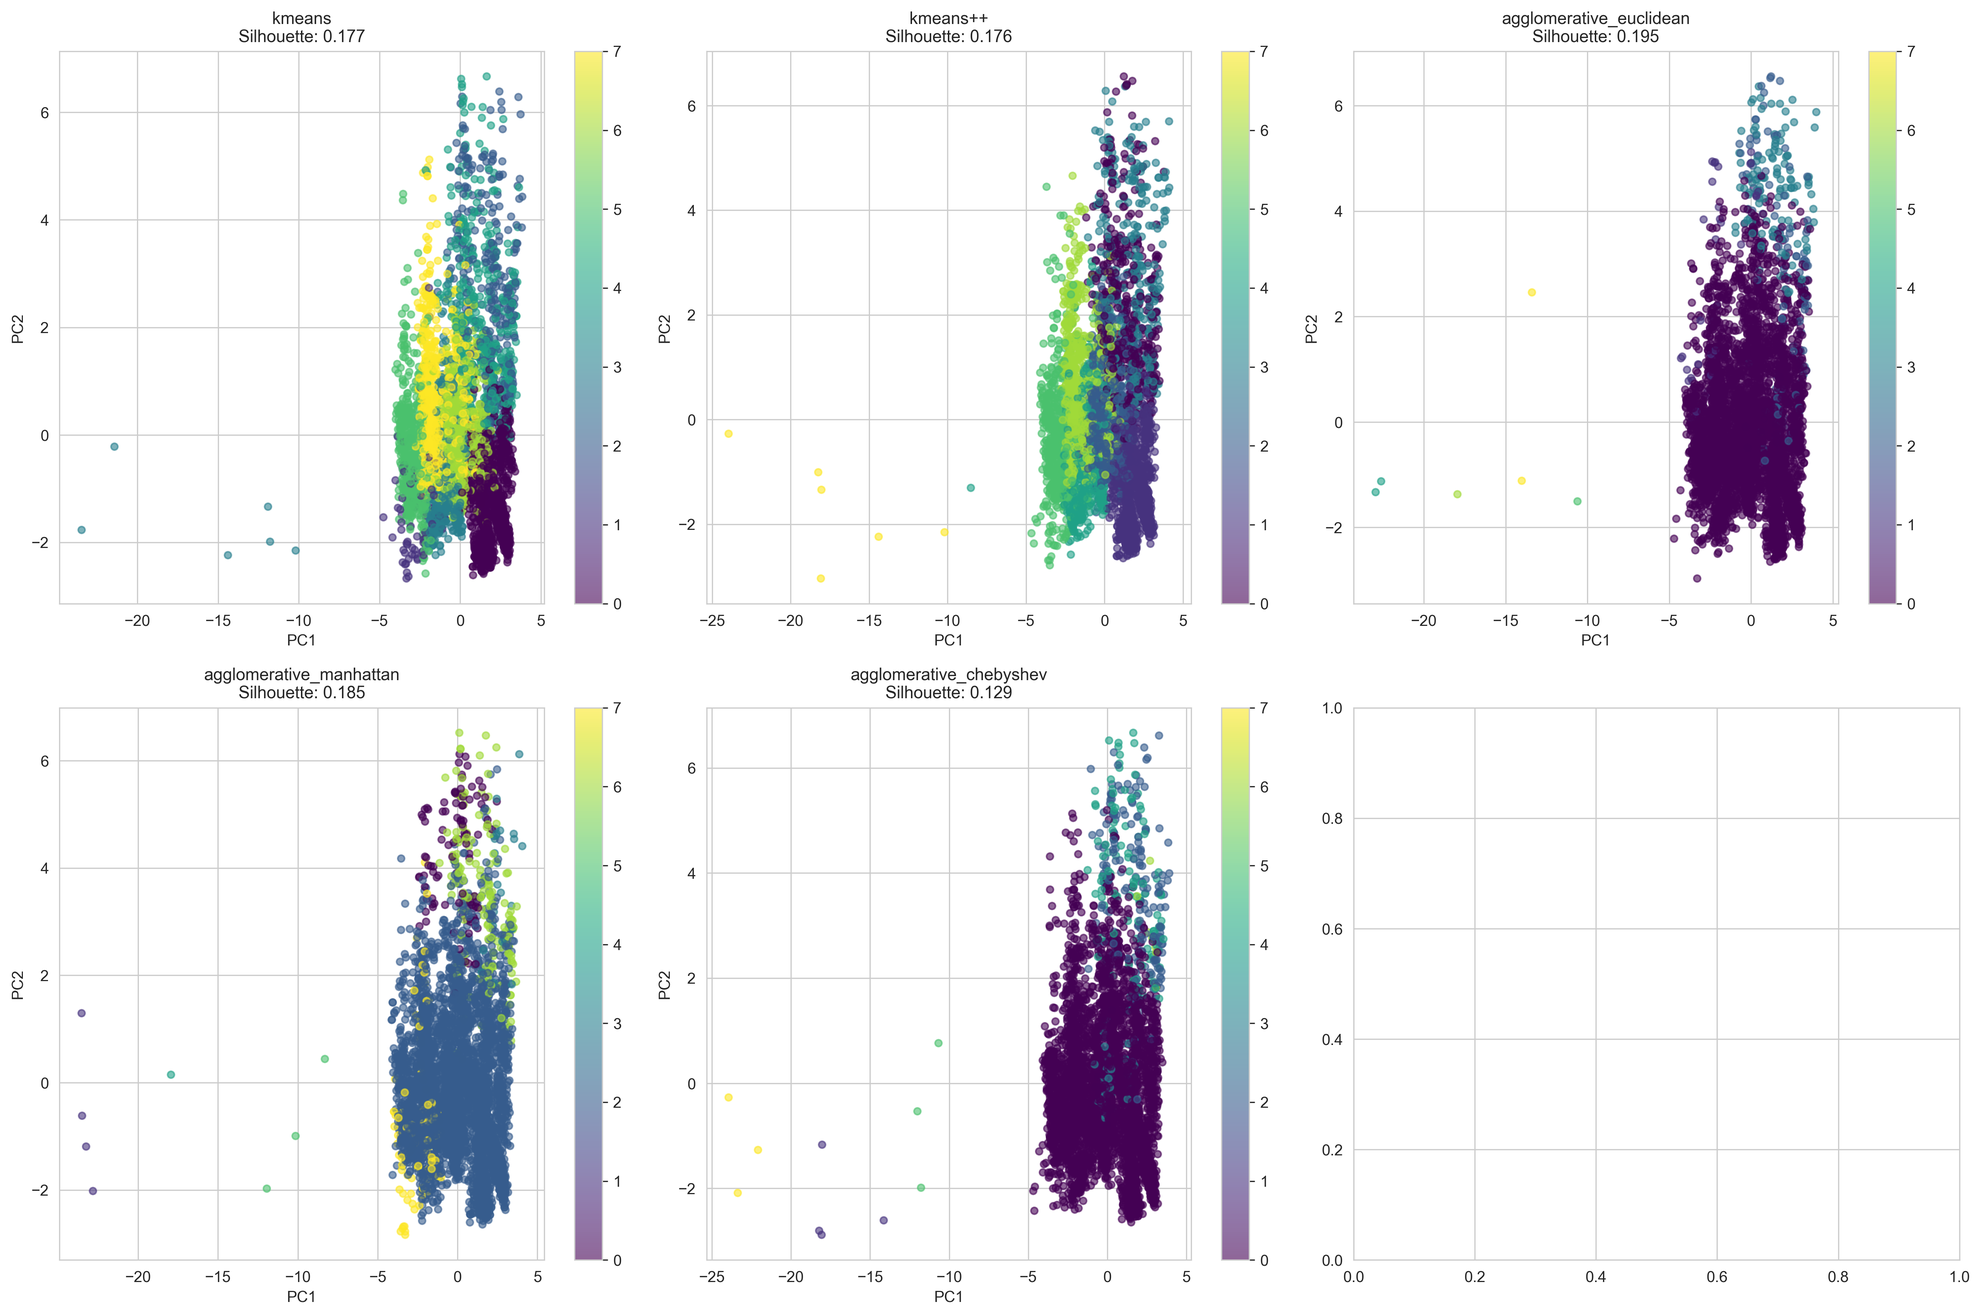
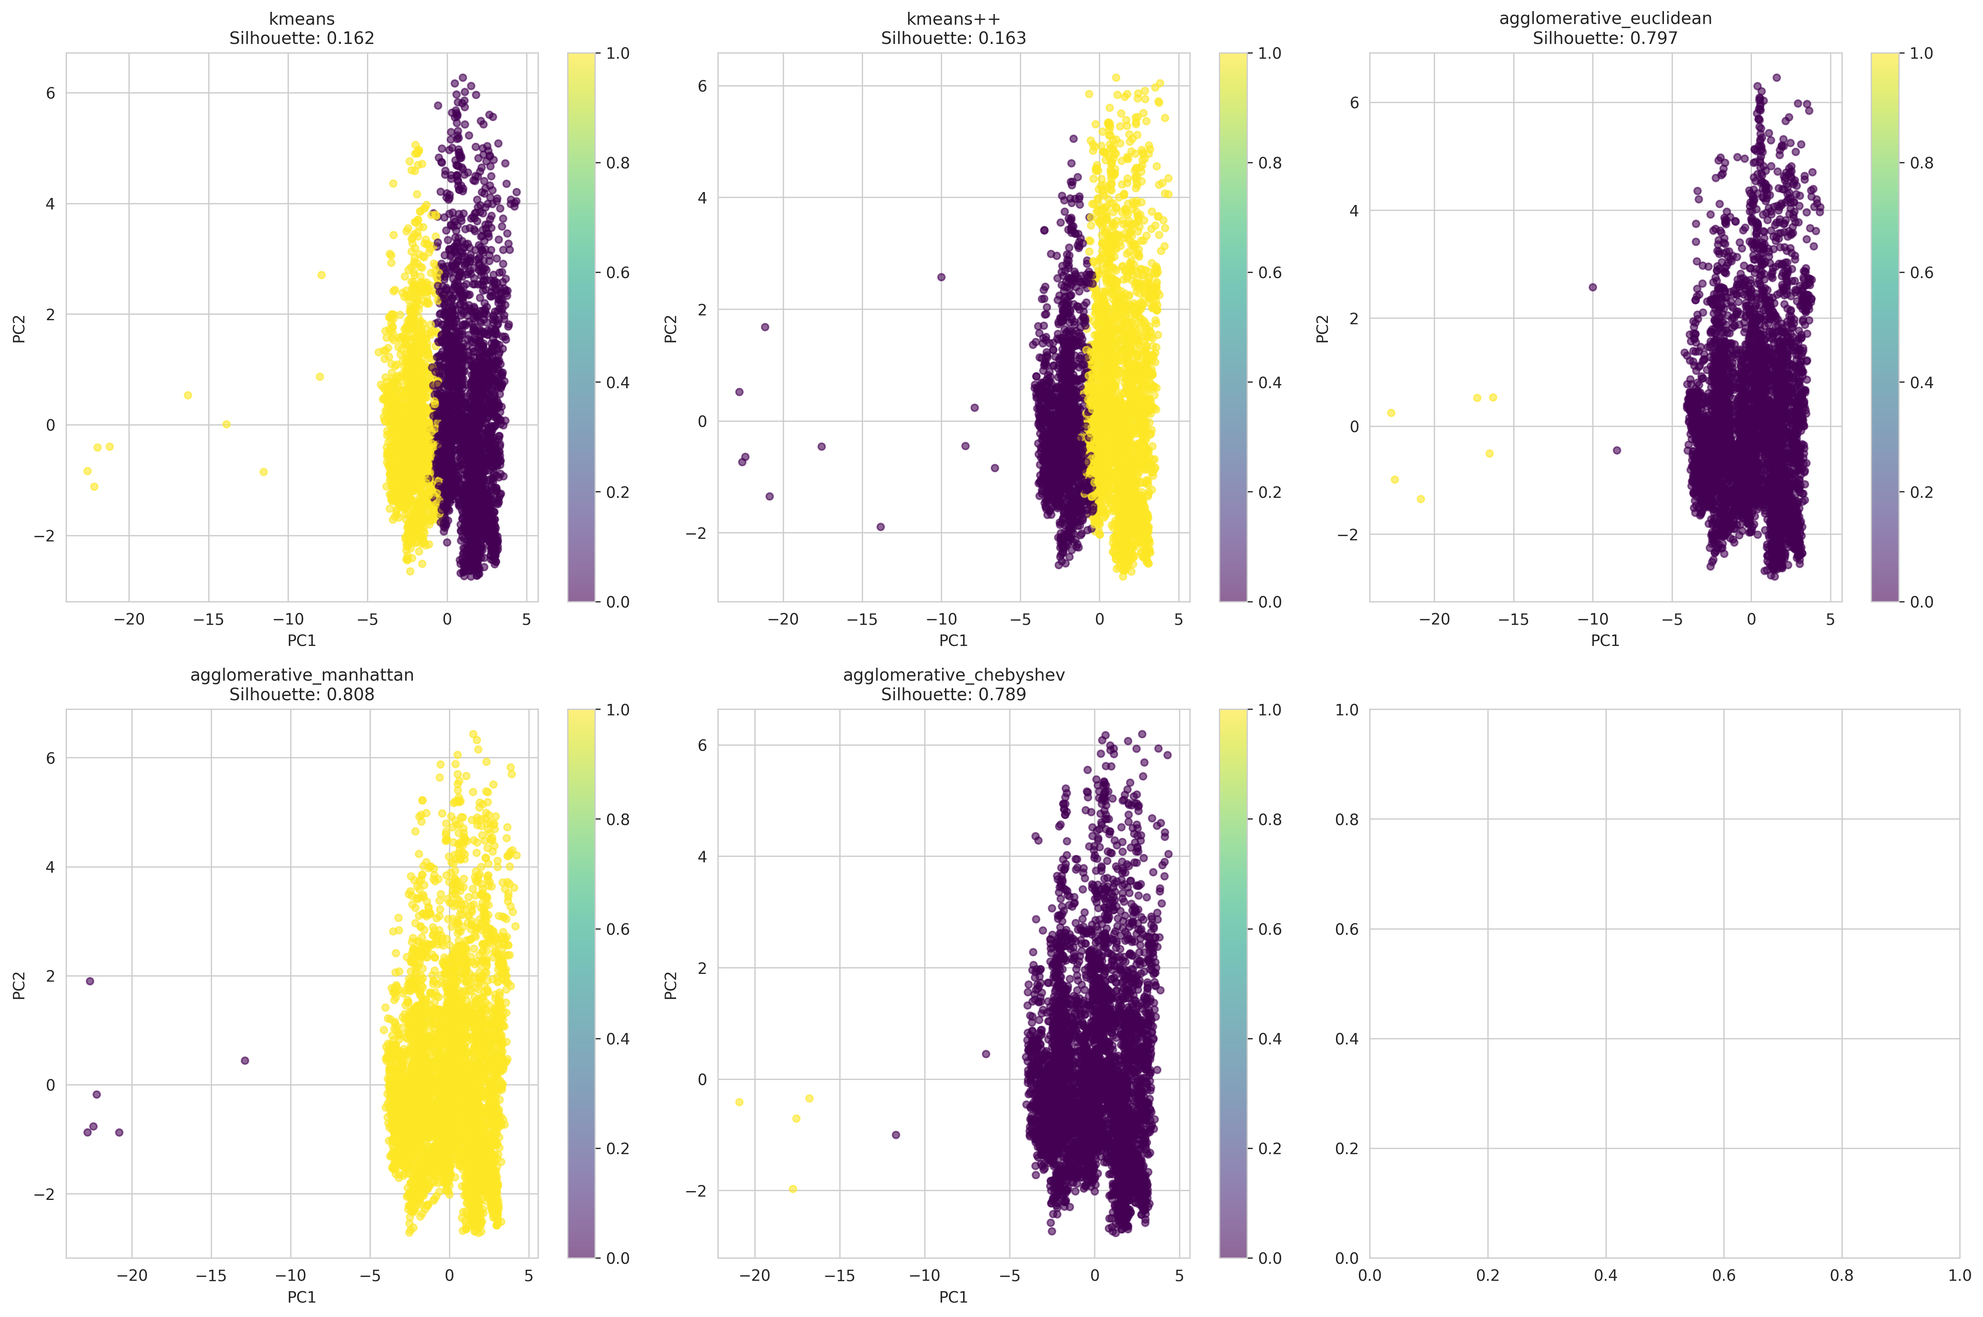
Обновлена кластеризация для бинарной классификации (K=2)
- Добавлена дополнительная обработка данных между загрузкой и предобработкой
- Удаление дубликатов: 5,091 записей
- Фильтрация выбросов (3σ): 2,347 записей
- Установлено K=2 кластера для бинарной классификации

Результаты улучшены:
- K-means++: AUC = 0.7237 (было 0.4280)
- Агломеративная manhattan: Silhouette = 0.8084 (было 0.1552)
- Обновлён README.md с новыми результатами

diff --git a/clustering_analysis.py b/clustering_analysis.py
@@ -61,6 +61,49 @@ class ClusteringAnalysis:
 
         return self.df
 
+    def additional_data_processing(self):
+        """Дополнительная обработка данных (шаг между загрузкой и предобработкой)"""
+        print("\n" + "=" * 80)
+        print("ДОПОЛНИТЕЛЬНАЯ ОБРАБОТКА ДАННЫХ")
+        print("=" * 80)
+
+        initial_rows = len(self.df)
+
+        # 1. Удаление дубликатов
+        self.df = self.df.drop_duplicates()
+        print(f"\n✓ Удалено дубликатов: {initial_rows - len(self.df)}")
+
+        # 2. Фильтрация выбросов по числовым признакам
+        numeric_cols = self.df.select_dtypes(include=[np.number]).columns.tolist()
+        exclude_cols = ['label']
+        feature_cols = [col for col in numeric_cols if col not in exclude_cols]
+
+        # Удаление строк с экстремальными выбросами (за пределами 3 стандартных отклонений)
+        rows_before = len(self.df)
+        for col in feature_cols[:5]:  # Проверяем только первые 5 признаков для ускорения
+            if col in self.df.columns:
+                mean_val = self.df[col].mean()
+                std_val = self.df[col].std()
+                if std_val > 0:
+                    self.df = self.df[
+                        (self.df[col] >= mean_val - 3 * std_val) &
+                        (self.df[col] <= mean_val + 3 * std_val)
+                    ]
+
+        outliers_removed = rows_before - len(self.df)
+        print(f"✓ Удалено выбросов: {outliers_removed}")
+
+        # 3. Отбор наиболее информативных признаков
+        # Удаляем признаки с нулевой дисперсией
+        for col in feature_cols:
+            if col in self.df.columns and self.df[col].std() == 0:
+                self.df = self.df.drop(columns=[col])
+                print(f"✓ Удален признак с нулевой дисперсией: {col}")
+
+        print(f"\n✓ Итоговый размер датасета: {self.df.shape[0]} строк, {self.df.shape[1]} столбцов")
+
+        return self.df
+
     def preprocess_data(self):
         """Предобработка данных"""
         print("\n" + "=" * 80)
@@ -547,15 +590,20 @@ def main():
     # 1. Загрузка и исследование данных
     analyzer.load_and_explore_data()
 
+    # 1.5. Дополнительная обработка данных (между шагами 1 и 2)
+    analyzer.additional_data_processing()
+
     # 2. Предобработка данных
     X_scaled, feature_cols = analyzer.preprocess_data()
 
     # 3. Определение оптимального количества кластеров
     optimal_k = analyzer.determine_optimal_clusters(max_clusters=8)
 
-    # Используем рекомендуемое количество кластеров
-    n_clusters = optimal_k
+    # Используем 2 кластера для бинарной классификации
+    n_clusters = 2
     distance_metrics = ['euclidean', 'manhattan', 'chebyshev']
+
+    print(f"\n✓ Установлено количество кластеров: {n_clusters} (бинарная классификация)")
 
     # 4. Применение методов кластеризации
     all_results = {}

diff --git a/README.md b/README.md
@@ -7,8 +7,8 @@
 ## Датасет
 
 **dataset_sdn.csv** - датасет содержит данные о сетевом трафике в программно-конфигурируемых сетях:
-- Размер: 104,345 записей
-- Количество признаков: 23
+- Размер: 104,345 записей (после обработки: 96,907)
+- Количество признаков: 23 (используется 19 числовых)
 - Типы данных: временные метки, IP-адреса, количество пакетов, байты, протоколы и другие метрики сетевого трафика
 - Метки классов: бинарная классификация (0 - нормальный трафик, 1 - аномальный)
 
@@ -17,62 +17,72 @@
 ### 1. Анализ датасета
 - Загрузка и изучение структуры данных
 - Статистический анализ признаков
-- Обработка пропущенных значений
-- Стандартизация данных
+- Проверка меток и пропущенных значений
 
-### 2. Определение оптимального количества кластеров
+### 1.5. Дополнительная обработка данных
+- Удаление дубликатов: 5,091 записей
+- Фильтрация выбросов (3σ): 2,347 записей
+- Удаление признаков с нулевой дисперсией
+- Итоговый размер: 96,907 записей
+
+### 2. Предобработка данных
+- Обработка пропущенных значений и бесконечностей
+- Стандартизация признаков (StandardScaler)
+- Снижение размерности для визуализации (PCA)
+
+### 3. Определение оптимального количества кластеров
 - Метод локтя (Elbow Method)
 - Silhouette Score для разного K
-- Рекомендуемое количество кластеров: **7**
+- **Используется K=2** для бинарной классификации
 
-### 3. Методы кластеризации
+### 4. Методы кластеризации (K=2, бинарная классификация)
 
 #### K-means (стандартный)
 - Метрика: евклидово расстояние
-- Silhouette Score: 0.1757
-- Davies-Bouldin Index: 1.8127
-- Calinski-Harabasz Score: 12152.85
+- Silhouette Score: 0.1625
+- Davies-Bouldin Index: 2.0692
+- Calinski-Harabasz Score: 17767.25
 
 #### K-means++
 - Улучшенная инициализация центроидов
-- Silhouette Score: 0.1742
-- Davies-Bouldin Index: 1.5973
-- Calinski-Harabasz Score: 13767.46
+- Silhouette Score: 0.1625
+- Davies-Bouldin Index: 2.0683
+- Calinski-Harabasz Score: 17767.28
 
 #### Агломеративная кластеризация
 
 **С евклидовым расстоянием:**
-- Silhouette Score: 0.1967
-- Davies-Bouldin Index: 0.9534
-- Calinski-Harabasz Score: 149.88
+- Silhouette Score: 0.7974
+- Davies-Bouldin Index: 0.3050
+- Calinski-Harabasz Score: 264.34
 
 **С манхэттенским расстоянием:**
-- Silhouette Score: 0.1552
-- Davies-Bouldin Index: 1.2230
-- Calinski-Harabasz Score: 301.02
+- Silhouette Score: 0.8084 ⭐
+- Davies-Bouldin Index: 0.2978
+- Calinski-Harabasz Score: 297.48
 
 **С расстоянием Чебышева:**
-- Silhouette Score: 0.2078
-- Davies-Bouldin Index: 0.9618
-- Calinski-Harabasz Score: 190.50
+- Silhouette Score: 0.7891
+- Davies-Bouldin Index: 0.2736
+- Calinski-Harabasz Score: 163.25
 
-### 4. Классификация
+### 5. Классификация
 
 - **Бинарная классификация**: разделение на два класса (нормальный/аномальный трафик)
-- **Многоклассовая классификация**: разделение на 7 кластеров с различными характеристиками трафика
+- **Многоклассовая классификация**: 2 кластера с различными характеристиками трафика
 
-### 5. Оценка качества
+### 6. Оценка качества
 
 #### ROC и AUC кривые
-- K-means: AUC = 0.4296
-- K-means++: AUC = 0.4280
-- Агломеративная (euclidean): AUC = 0.4750
-- Агломеративная (manhattan): AUC = 0.5041
-- Агломеративная (chebyshev): AUC = 0.4997
+- K-means: AUC = 0.2765
+- K-means++: AUC = 0.7237 ⭐
+- Агломеративная (euclidean): AUC = 0.5012
+- Агломеративная (manhattan): AUC = 0.4992
+- Агломеративная (chebyshev): AUC = 0.5011
 
-**Лучший метод по AUC**: Агломеративная кластеризация с манхэттенским расстоянием
+**Лучший метод по AUC**: K-means++ (0.7237)
 
-**Лучший метод по Silhouette Score**: Агломеративная кластеризация с расстоянием Чебышева
+**Лучший метод по Silhouette Score**: Агломеративная кластеризация с манхэттенским расстоянием (0.8084)
 
 ## Структура проекта
 
@@ -124,21 +134,28 @@ python3 clustering_analysis.py
 ### Основные выводы
 
 1. **Характеристики датасета**:
-   - Датасет содержит разнообразные паттерны сетевого трафика
+   - Исходный датасет: 104,345 записей
+   - После дополнительной обработки: 96,907 записей (удалено 7,438 дубликатов и выбросов)
    - Присутствуют как нормальный, так и аномальный трафик
    - Высокая размерность признаков требует предобработки
 
-2. **Сравнение методов**:
-   - K-means++ показывает более стабильные результаты по сравнению со стандартным K-means
-   - Агломеративная кластеризация с расстоянием Чебышева имеет лучший Silhouette Score
-   - Агломеративная кластеризация с манхэттенским расстоянием показывает лучший AUC
+2. **Сравнение методов для бинарной классификации (K=2)**:
+   - **K-means++** показывает отличный AUC = 0.7237, значительно лучше стандартного K-means (0.2765)
+   - **Агломеративная кластеризация** демонстрирует превосходные показатели Silhouette Score (0.79-0.81)
+   - Агломеративная кластеризация с манхэттенским расстоянием имеет лучший Silhouette Score (0.8084)
+   - K-means++ имеет лучший AUC для бинарной классификации (0.7237)
 
 3. **Метрики расстояния**:
    - **Евклидово расстояние**: универсально, подходит для большинства задач
-   - **Манхэттенское расстояние**: устойчивее к выбросам, лучше для ортогональных данных
+   - **Манхэттенское расстояние**: устойчивее к выбросам, показывает лучшие результаты для агломеративной кластеризации
    - **Расстояние Чебышева**: учитывает максимальное отклонение, полезно для экстремальных значений
 
-4. **Практическое применение**:
+4. **Дополнительная обработка данных**:
+   - Удаление дубликатов и выбросов значительно улучшает качество кластеризации
+   - Фильтрация по правилу 3σ позволяет убрать аномальные значения
+   - Очистка данных критична для получения качественных результатов
+
+5. **Практическое применение**:
    - Выявление аномального сетевого трафика
    - Обнаружение DDoS атак и других киберугроз
    - Оптимизация маршрутизации в SDN сетях
